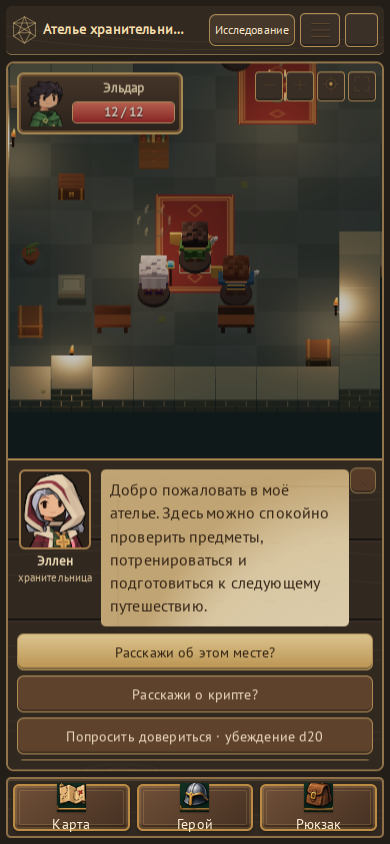
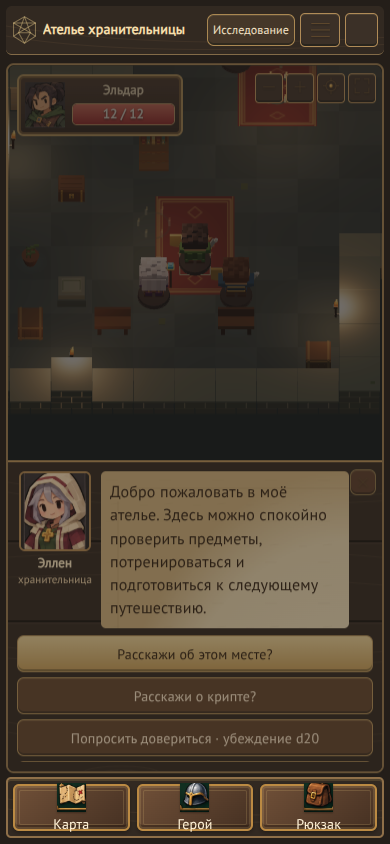
Update Site source

diff --git a/dist/index.html b/dist/index.html
@@ -1,4 +1,4 @@
-<!doctype html><html lang="ru"><head><meta charset="utf-8"><meta name="viewport" content="width=device-width,initial-scale=1,viewport-fit=cover"><meta name="theme-color" content="#10251d"><title>За гранью · воксельный полигон</title><link rel="stylesheet" href="style.css?v=reference25"></head><body><main class="tabletop">
+<!doctype html><html lang="ru"><head><meta charset="utf-8"><meta name="viewport" content="width=device-width,initial-scale=1,viewport-fit=cover"><meta name="theme-color" content="#10251d"><title>За гранью · воксельный полигон</title><link rel="stylesheet" href="style.css?v=portraits6"></head><body><main class="tabletop">
 <header><div class="title"><svg class="d20" viewBox="0 0 64 72"><path d="M32 2 60 18v34L32 70 4 52V18ZM32 2 17 43h30ZM4 18l43 25 13 9M60 18 17 43 4 52M4 18h56M17 43 32 70l15-27"/></svg><div><h1 id="title">Визуальный полигон</h1><span id="scene-name" class="scene-name"></span></div></div><div id="party" class="party"></div><button id="turn" class="turn">Исследование</button><button id="menu" class="menu" aria-label="Помощь">?</button></header>
 <section id="map-view" class="view">
 <div class="map-shell"><div class="map-toolbar"><span>Карта</span><div><button id="zoom-out" aria-label="Уменьшить">−</button><button id="zoom-in" aria-label="Увеличить">+</button><button id="camera-center">К герою</button><button id="camera-fit">Целиком</button></div></div>
@@ -12,4 +12,4 @@
 <section class="test-card"><h3>Свет и тайник</h3><p>Пять шагов: факел, дверь, осмотр ниши, находка и разговор с Эллен.</p><button id="start-trial">Начать проверку</button></section><section class="test-card rule-stages"><h3>Освоение D&D</h3><div class="test-buttons"><button data-test="rules" data-value="1">1 · Броски и движение</button><button data-test="rules" data-value="2">2 · Действия и реакции</button><button data-test="rules" data-value="3">3 · Магия и способности</button><button data-test="poison">Состояние: отравлен</button><button data-test="down">Состояние: без сознания</button></div><p class="subtle">Полные расчёты доступны сразу. Дополнительные действия раскрываются по этапам.</p></section><div class="test-grid"><section class="test-card"><h3>Локации и персонажи</h3><div class="test-buttons"><button data-test="scene" data-value="hub">Ателье</button><button data-test="scene" data-value="crypt">Крипта</button><button data-test="npc">К Эллен</button><button data-test="dummies">К манекенам</button><button data-test="doors">Открыть / закрыть двери</button><button data-test="dialogue">Повторить диалог</button></div></section>
 <section class="test-card"><h3>Бой и реакции</h3><div class="test-buttons"><button data-test="fight">Начать бой</button><button data-test="peace">Остановить бой</button><button data-test="damage">Урон −8</button><button data-test="crit">Критический удар</button><button data-test="miss">Промах</button><button data-test="heal">Восстановить отряд</button></div></section>
 <section class="test-card"><h3>Предметы и развитие</h3><div class="test-buttons"><button data-test="loot">Восстановить сундуки</button><button data-test="coins">+50 монет</button><button data-test="xp">+100 опыта</button><button data-test="reset">Сброс полигона</button></div></section>
-<section class="test-card"><h3>Свет и отображение</h3><div class="test-buttons"><button id="test-light" data-test="light">Свет</button><button id="test-grid" data-test="grid">Сетка</button><button id="test-animations" data-test="animations">Анимации</button></div><label class="slider-label">Общий свет <output id="ambient-value"></output><input id="ambient" type="range" min="0.05" max="0.8" step="0.05"></label><label class="slider-label">Яркость факелов <output id="intensity-value"></output><input id="intensity" type="range" min="0.3" max="1.5" step="0.1"></label></section></div><p id="test-log" class="test-log" aria-live="polite"></p></section><p class="rules-credit">Основа: SRD 5.2.1 · CC BY 4.0. <a href="rules.html">Правила и источники</a></p><nav class="tabs" aria-label="Разделы"><button id="tab-map" role="tab" aria-selected="true" class="active"><span>◇</span>Карта</button><button id="tab-hero" role="tab" aria-selected="false"><span>♙</span>Герой</button><button id="tab-bag" role="tab" aria-selected="false"><span>▣</span>Рюкзак</button><button id="tab-test" role="tab" aria-selected="false"><span>⚙</span>Тест</button></nav></main><dialog id="modal"><div class="modal-head"><h2 id="modal-title"></h2><button id="close" aria-label="Закрыть">×</button></div><div id="modal-body"></div></dialog><dialog id="dice-panel"><div class="modal-head"><h2>Кубики</h2><button onclick="this.closest('dialog').close()" aria-label="Закрыть">×</button></div><div class="dice-controls"><label>Кубик<select id="dice-type"></select></label><label>Формула<input id="dice-formula" value="1d20" maxlength="14" autocomplete="off" placeholder="2d6+3"></label><button id="dice-submit" class="gold">Бросить</button></div><p id="dice-result" aria-live="polite">Выберите кубик или введите формулу.</p><button id="dice-history">Журнал бросков</button><p class="subtle">d4 · d6 · d8 · d10 · d12 · d20 · d100</p></dialog><script src="dnd.js?v=reference25"></script><script src="visibility.js?v=reference25"></script><script src="rules-ui.js?v=reference25"></script><script src="world.js?v=reference25"></script><script src="inventory-rules.js?v=reference25"></script><script src="torches.js?v=reference25"></script><script src="environment.js?v=reference25"></script><script src="decor.js?v=reference25"></script><script src="textures.js?v=reference25"></script><script src="views.js?v=reference25"></script><script src="scenario.js?v=reference25"></script><script src="tests.js?v=reference25"></script><script src="episode.js?v=reference25"></script><script src="menu.js?v=reference25"></script><script src="hero-rules.js?v=reference25"></script><script src="worlds.js?v=reference25"></script><script src="heroes.js?v=reference25"></script><script src="ui-icons.js?v=reference25"></script><script src="character-style.js?v=approved53"></script><script src="artwork.js?v=reference25"></script><script src="inventory.js?v=reference25"></script><script src="hud.js?v=reference25"></script><script src="game.js?v=reference25"></script><script defer src="voxel.js?v=reference25"></script></body></html>
+<section class="test-card"><h3>Свет и отображение</h3><div class="test-buttons"><button id="test-light" data-test="light">Свет</button><button id="test-grid" data-test="grid">Сетка</button><button id="test-animations" data-test="animations">Анимации</button></div><label class="slider-label">Общий свет <output id="ambient-value"></output><input id="ambient" type="range" min="0.05" max="0.8" step="0.05"></label><label class="slider-label">Яркость факелов <output id="intensity-value"></output><input id="intensity" type="range" min="0.3" max="1.5" step="0.1"></label></section></div><p id="test-log" class="test-log" aria-live="polite"></p></section><p class="rules-credit">Основа: SRD 5.2.1 · CC BY 4.0. <a href="rules.html">Правила и источники</a></p><nav class="tabs" aria-label="Разделы"><button id="tab-map" role="tab" aria-selected="true" class="active"><span>◇</span>Карта</button><button id="tab-hero" role="tab" aria-selected="false"><span>♙</span>Герой</button><button id="tab-bag" role="tab" aria-selected="false"><span>▣</span>Рюкзак</button><button id="tab-test" role="tab" aria-selected="false"><span>⚙</span>Тест</button></nav></main><dialog id="modal"><div class="modal-head"><h2 id="modal-title"></h2><button id="close" aria-label="Закрыть">×</button></div><div id="modal-body"></div></dialog><dialog id="dice-panel"><div class="modal-head"><h2>Кубики</h2><button onclick="this.closest('dialog').close()" aria-label="Закрыть">×</button></div><div class="dice-controls"><label>Кубик<select id="dice-type"></select></label><label>Формула<input id="dice-formula" value="1d20" maxlength="14" autocomplete="off" placeholder="2d6+3"></label><button id="dice-submit" class="gold">Бросить</button></div><p id="dice-result" aria-live="polite">Выберите кубик или введите формулу.</p><button id="dice-history">Журнал бросков</button><p class="subtle">d4 · d6 · d8 · d10 · d12 · d20 · d100</p></dialog><script src="dnd.js?v=portraits6"></script><script src="visibility.js?v=portraits6"></script><script src="rules-ui.js?v=portraits6"></script><script src="world.js?v=portraits6"></script><script src="inventory-rules.js?v=portraits6"></script><script src="torches.js?v=portraits6"></script><script src="environment.js?v=portraits6"></script><script src="decor.js?v=portraits6"></script><script src="textures.js?v=portraits6"></script><script src="views.js?v=portraits6"></script><script src="scenario.js?v=portraits6"></script><script src="tests.js?v=portraits6"></script><script src="episode.js?v=portraits6"></script><script src="menu.js?v=portraits6"></script><script src="hero-rules.js?v=portraits6"></script><script src="worlds.js?v=portraits6"></script><script src="heroes.js?v=portraits6"></script><script src="ui-icons.js?v=portraits6"></script><script src="character-style.js?v=portraits6"></script><script src="artwork.js?v=portraits6"></script><script src="inventory.js?v=portraits6"></script><script src="hud.js?v=portraits6"></script><script src="game.js?v=portraits6"></script><script defer src="voxel.js?v=portraits6"></script></body></html>

diff --git a/dist/artwork.js b/dist/artwork.js
@@ -1,17 +1,20 @@
 (() => {'use strict';const atlas='assets/approved-cartoon-ui.png';
 const regions={book:[783,653,133,104],ranger:[30,70,227,226],wizard:[277,70,226,226],keeper:[526,70,227,226],novice:[771,70,224,226],map:[48,1339,91,91],hero:[191,1341,77,88],bag:[328,1341,84,88],sword:[470,1341,79,88],shield:[608,1341,80,88],chat:[748,1341,80,88],dice:[886,1340,84,90],barrel:[34,635,139,186],chest:[187,652,174,170],books:[385,604,166,217],torch:[581,609,101,213],desk:[713,617,277,203],ration:[30,1110,188,164],ink:[281,1089,139,184],rope:[422,1116,190,149],letter:[644,1110,159,166],pack:[812,1100,190,174]};
 function image(key,cls=''){const r=regions[key]||regions.ranger,s=document.createElementNS('http://www.w3.org/2000/svg','svg');s.setAttribute('viewBox',r.join(' '));s.setAttribute('class','painted-asset '+cls);s.setAttribute('aria-hidden','true');const i=document.createElementNS('http://www.w3.org/2000/svg','image');i.setAttribute('href',atlas);i.setAttribute('width','1024');i.setAttribute('height','1536');s.append(i);return s;}
-const portraitParts={male:[42,72,247,272],female:[352,75,249,270],short:[622,67,303,225],long:[946,52,305,298],beard:[63,515,199,126],bob:[319,386,303,249],pony:[626,341,329,332],hood:[954,381,290,269],fighterMale:[2,705,326,198],fighterFemale:[329,705,297,199],wizardMale:[628,691,314,213],wizardFemale:[942,710,308,192],rogueMale:[6,954,322,219],rogueFemale:[328,952,305,221],clericMale:[637,953,317,220],clericFemale:[946,960,304,212]};
-function hero(actor){const p=CharacterStyle.characterProfile(actor),female=p.gender==='female',s=document.createElementNS('http://www.w3.org/2000/svg','svg'),ns=s.namespaceURI,id='char-'+Math.random().toString(36).slice(2);s.setAttribute('viewBox','0 0 240 290');s.setAttribute('class','painted-asset head-portrait custom-portrait');s.setAttribute('aria-label','Портрет '+actor.name);s.dataset.gender=p.gender;s.dataset.cloth=p.cloth;s.dataset.hairStyle=p.hairStyle;s.dataset.faceBase=p.gender;s.dataset.style=p.style;const defs=document.createElementNS(ns,'defs');s.append(defs);function node(tag,attrs,parent=s){const n=document.createElementNS(ns,tag);for(const[k,v]of Object.entries(attrs))n.setAttribute(k,v);parent.append(n);return n;}function layer(key,box,color,base,clip){const r=portraitParts[key],scale=Math.min(box[2]/r[2],box[3]/r[3]),svg=node('g',{transform:'translate('+(box[0]+(box[2]-r[2]*scale)/2)+' '+(box[1]+(box[3]-r[3]*scale)/2)+') scale('+scale+') translate('+(-r[0])+' '+(-r[1])+')','data-part':key});const bounds=node('clipPath',{id:id+'-bounds-'+key+'-'+Math.random().toString(36).slice(2)},defs);node('rect',{x:r[0],y:r[1],width:r[2],height:r[3]},bounds);svg.setAttribute('clip-path','url(#'+bounds.id+')');if(color&&base){const rgb=h=>[1,3,5].map(i=>parseInt(h.slice(i,i+2),16)),a=rgb(color),b=rgb(base),filter=node('filter',{id:id+'-'+key,'color-interpolation-filters':'sRGB'},defs);const luminance=/Male|Female/.test(key)?.38:['short','long','bob','pony','beard'].includes(key)?(b[0]*.2126+b[1]*.7152+b[2]*.0722)/255:0;const matrix=luminance?a.map(c=>[.2126,.7152,.0722].map(w=>w*c/255/luminance).join(' ')+' 0 0').join(' ')+' 0 0 0 1 0':(a[0]/Math.max(1,b[0]))+' 0 0 0 0 0 '+(a[1]/Math.max(1,b[1]))+' 0 0 0 0 0 '+(a[2]/Math.max(1,b[2]))+' 0 0 0 0 0 1 0';node('feColorMatrix',{type:'matrix',values:matrix},filter);svg.setAttribute('filter','url(#'+filter.id+')');}const im=node('image',{href:'assets/character-portrait-parts.png',width:1254,height:1254},svg);if(clip){const c=node('clipPath',{id:id+'-clip-'+key},defs);node('path',{d:clip,'clip-rule':'evenodd'},c);im.setAttribute('clip-path','url(#'+c.id+')');}return svg;}
-
-const hair=female&&p.role==='rogue'&&p.hairStyle==='short'?'bob':p.hairStyle==='long'?(p.role==='fighter'&&female?'pony':p.role==='rogue'&&female?'bob':'long'):'short';const hairBase=hair==='long'?'#c9c6d7':hair==='pony'?'#d7a652':'#75462e';
-const head=layer(female?'female':'male',female&&p.hairStyle!=='bald'?[6,27,170,183]:[25,9,190,207],p.skin,'#efbc88');if(p.hairStyle!=='bald'){const c=node('clipPath',{id:id+'-scalp'},defs);node('rect',{x:0,y:female?68:40,width:240,height:220},c);const headGroup=node('g',{'clip-path':'url(#'+c.id+')'});headGroup.append(head);}
-const role=['fighter','wizard','rogue','cleric'].includes(p.role)?p.role:'cleric',clothing=role+(female?'Female':'Male');layer(clothing,[0,188,240,156]);
-// Color only the cloth zones; gold trim and cream collars retain their material color.
-const overlays={fighter:'M 55 755 H 234 V 890 H 55 Z M 325 763 H 560 V 884 H 325 Z',wizard:'M 640 721 H 930 V 915 H 640 Z M 960 727 H 1260 V 915 H 960 Z',rogue:'M 10 960 H 310 V 1117 H 10 Z M 327 960 H 624 V 1117 H 327 Z',cleric:'M 652 1067 H 790 V 1188 H 652 Z M 868 1067 H 948 V 1188 H 868 Z M 958 1067 H 1065 V 1188 H 958 Z M 1180 1067 H 1268 V 1188 H 1180 Z'};layer(clothing,[0,188,240,156],p.cloth,CharacterStyle.ROLES[role].cloth,overlays[role]);
-const goldLayer=layer(clothing,[0,188,240,156]),goldFilter=node('filter',{id:id+'-gold','color-interpolation-filters':'sRGB'},defs);node('feColorMatrix',{in:'SourceGraphic',type:'matrix',values:'0 0 0 0 0 0 0 0 0 0 0 0 0 0 0 5 0 -5 0 -1.3',result:'goldMask'},goldFilter);const threshold=node('feComponentTransfer',{in:'goldMask',result:'goldOnly'},goldFilter);node('feFuncA',{type:'discrete',tableValues:'0 1'},threshold);const trim=[1,3,5].map(i=>parseInt(p.trim.slice(i,i+2),16)),baseGold=[198,160,79];node('feColorMatrix',{in:'SourceGraphic',type:'matrix',values:(trim[0]/baseGold[0])+' 0 0 0 0 0 '+(trim[1]/baseGold[1])+' 0 0 0 0 0 '+(trim[2]/baseGold[2])+' 0 0 0 0 0 1 0',result:'tintedGold'},goldFilter);node('feComposite',{in:'tintedGold',in2:'goldOnly',operator:'in'},goldFilter);goldLayer.setAttribute('filter','url(#'+goldFilter.id+')');
-if(p.face==='beard'){const beard=layer('beard',female&&p.hairStyle!=='bald'?[12,113,145,98]:[37,108,166,109],p.hair,'#352b32','M 58 505 H 278 V 649 H 58 Z M 139 574 H 187 Q 194 574 194 581 V 593 Q 194 600 187 600 H 139 Q 132 600 132 593 V 581 Q 132 574 139 574 Z');const c=node('clipPath',{id:id+'-jaw'},defs);node('path',{d:female?'M 20 100 H 180 V 150 Q 164 191 95 196 Q 32 191 20 150 Z':'M 40 102 H 200 V 168 L 161 212 H 79 L 40 168 Z'},c);const group=node('g',{'clip-path':'url(#'+c.id+')'});group.append(beard);}
-if(p.hairStyle!=='bald')layer(hair,hair==='short'?[8,-5,224,183]:[4,hair==='pony'||hair==='bob'?-31:-6,232,250],p.hair,hairBase);if(p.hood)layer('hood',[-1,-7,242,252]);return s;}
+// Whole approved drawings: class/gender selection only, no overlapping face/hair layers.
+function hero(actor){
+ const p=CharacterStyle.characterProfile(actor),role=Object.hasOwn(CharacterStyle.PORTRAIT_REGIONS,p.role)?p.role:'cleric';
+ const [x,y,w,h]=CharacterStyle.PORTRAIT_REGIONS[role][p.gender];
+ const ns='http://www.w3.org/2000/svg',s=document.createElementNS(ns,'svg');
+ s.setAttribute('viewBox','0 0 '+w+' '+h);s.setAttribute('preserveAspectRatio','xMidYMid meet');
+ s.setAttribute('class','painted-asset head-portrait custom-portrait');
+ s.setAttribute('aria-label','Портрет '+(actor.name||'героя'));s.style.overflow='hidden';
+ s.dataset.gender=p.gender;s.dataset.cloth=p.cloth;s.dataset.hairStyle=p.hairStyle;
+ s.dataset.faceBase=p.gender;s.dataset.style=p.style;s.dataset.portraitSource='reference';s.dataset.portraitKey=role+':'+p.gender;
+ const im=document.createElementNS(ns,'image');im.setAttribute('href','assets/character-portraits-reference.jpeg');
+ im.setAttribute('x',-x);im.setAttribute('y',-y);im.setAttribute('width',1024);im.setAttribute('height',1536);
+ s.append(im);return s;
+}
 
 function npc(name){const actor=CharacterStyle.npcActor(name);return actor?hero(actor):null;}
 const old=window.UIIcons.svg;window.UIIcons.svg=name=>regions[name]?image(name,'ui-icon').outerHTML:old(name);

diff --git a/dist/heroes.js b/dist/heroes.js
@@ -19,7 +19,7 @@ if(step===1){body.append(title('Распредели 27 очков'));const used
 if(step===2){body.append(title('Внешность'));for(const [key,name]of Object.entries({skin:'Кожа',hair:'Волосы',cloth:'Одежда',trim:'Отделка'})){const label=title(name),row=document.createElement('div');row.className='color-choices';R.COLORS[key].forEach((color,i)=>{const b=button('',()=>{draft.appearance[key]=color;editor();},draft.appearance[key]===color?'active':'');b.classList.add('color-swatch');b.style.background=color;b.setAttribute('aria-label',name+' · вариант '+(i+1));b.setAttribute('aria-pressed',String(draft.appearance[key]===color));row.append(b)});body.append(label,row);}for(const [key,name,options]of [['hairStyle','Причёска',{short:'Короткая',long:'Длинная',bald:'Без волос'}],['face','Лицо',{soft:'Мягкое',stern:'Суровое',beard:'С бородой'}]]){body.append(title(name));const row=document.createElement('div');row.className='class-choices';for(const [v,text]of Object.entries(options))row.append(button(text,()=>{draft.appearance[key]=v;editor();},draft.appearance[key]===v?'active':''));body.append(row);}}
 if(step===3){body.append(title(draft.name+' · '+R.CLASSES[draft.classId].name));const p=document.createElement('p');p.textContent=draft.background;body.append(p,button('Новая предыстория',()=>{draft.background=R.background(draft.classId,pick);editor();}));body.append(title('Обычное стартовое снаряжение'));const kit=R.CLASSES[draft.classId].kits[draft.kit],ul=document.createElement('ul');kit.items.forEach(t=>{const li=document.createElement('li');li.textContent=t;ul.append(li)});body.append(ul,button('Другой комплект',()=>{draft.kit=(draft.kit+1)%R.CLASSES[draft.classId].kits.length;editor();}));const h=R.sheet({...draft,name:draft.name.trim()||'Герой'},'preview'),stats=document.createElement('p');stats.textContent='Очки характеристик '+R.pointsUsed(draft.stats)+' / 27 · Здоровье '+h.max+' · КД '+h.ac+' · '+Object.entries(draft.stats).map(([k,v])=>R.LABELS[k]+' '+v).join(' · ');body.append(stats);const note=document.createElement('p');note.className='creation-warning';note.textContent='После подтверждения имя, внешность, класс, начальные характеристики и предыстория закрепятся. Прокачка и смена снаряжения останутся доступны.';body.append(note);}
 if(step===2){const controls=document.createElement('div');controls.id='appearance-settings';controls.append(...Array.from(body.children).slice(2));body.append(controls);controls.scrollTop=settingsScroll;}const f=$('heroes-footer');f.replaceChildren(button(step?'Назад':'К героям',()=>{if(step){step--;editor()}else{draft=null;$('heroes-title').textContent='Твои герои';paintList();}}));if(step<3)f.append(button('Далее',()=>{if(!draft.name.trim()){status('Введите имя героя.');return;}step++;editor();},'gold'));else{const b=button(saving?'Сохраняем…':'Подтвердить героя',confirm,'gold');b.disabled=saving||!draft.name.trim();f.append(b);}paintPreview();panel.scrollTop=scroll;if(saving)$('heroes-panel').querySelectorAll('button,input,select').forEach(el=>el.disabled=true);}
-function paintPreview(){const el=$('creation-figure');if(!el||!draft)return;el.replaceChildren();const h=R.sheet({...draft,name:draft.name.trim()||'Герой'},'preview');const portrait=$('creation-portrait');if(portrait){const name=document.createElement('b'),hp=document.createElement('span');name.textContent=h.name;hp.textContent=h.max+' / '+h.max;portrait.replaceChildren(Artwork.hero(h),name,hp);}if(window.voxel?.heroPortrait){el.append(voxel.heroPortrait(h,angle));}else el.append(g().art(R.CLASSES[draft.classId].kind*4));}
+function paintPreview(){const el=$('creation-figure');if(!el||!draft)return;el.replaceChildren();const h=R.sheet({...draft,name:draft.name.trim()||'Герой'},'preview');const portrait=$('creation-portrait');if(portrait){const name=document.createElement('b'),hp=document.createElement('span');name.textContent=h.name;hp.textContent=h.max+' / '+h.max;portrait.replaceChildren(Artwork.hero(h),name,hp);}if(window.voxel?.heroPortrait){el.append(voxel.heroPortrait(h,angle));}else el.append(g().art(R.CLASSES[draft.classId].kind*4));const settings=$('appearance-settings');if(settings&&!$('portrait-reference-note')){const note=document.createElement('p');note.id='portrait-reference-note';note.className='subtle';note.textContent='Портрет из референса меняется по классу и полу. Цвета, причёска и лицо настраивают 3D-модель.';settings.prepend(note);}}
 async function confirm(){if(saving)return;try{R.validate(draft);if(R.pointsUsed(draft.stats)!==R.POINT_BUDGET){step=1;editor();status('Распределите оставшиеся '+(R.POINT_BUDGET-R.pointsUsed(draft.stats))+' очков перед подтверждением.');return;}saving=true;editor();const {hero}=await api('POST',draft);heroes.unshift(hero);draft=null;$('heroes-title').textContent='Твои герои';sessionStorage.removeItem('hero-draft');saving=false;status('Герой сохранён. Можно войти в тестовую комнату.');paintList();}catch(e){saving=false;editor();status(e.message);}}
 function init(){const d=document.createElement('dialog');d.id='heroes-panel';d.className='heroes-panel';d.innerHTML='<div class="modal-head"><h2 id="heroes-title">Твои герои</h2><button id="heroes-close" aria-label="Закрыть">×</button></div><div id="heroes-body"></div><p id="heroes-error" role="status" aria-live="polite"></p><div id="heroes-footer"></div>';document.body.append(d);$('heroes-close').onclick=()=>{if(!saving&&!window.Worlds.atMenu)d.close()};d.addEventListener('cancel',e=>{if(saving||window.Worlds.atMenu)e.preventDefault()});const b=button('Мои герои',open);b.id='saved-heroes-open';$('hero-view').prepend(b);open();}
 window.Heroes={init,open,paintPreview,refreshPortraits:()=>{if(draft)paintPreview();else if(loaded)paintList();},get heroes(){return heroes},get draft(){return draft},start,confirm};})();

diff --git a/dist/character-style.js b/dist/character-style.js
@@ -21,6 +21,7 @@ var CharacterStyle = (() => {
   var character_style_exports = {};
   __export(character_style_exports, {
     NPCS: () => NPCS,
+    PORTRAIT_REGIONS: () => PORTRAIT_REGIONS,
     ROLES: () => ROLES,
     STYLE: () => STYLE,
     STYLE_VERSION: () => STYLE_VERSION,
@@ -31,6 +32,12 @@ var CharacterStyle = (() => {
     tint: () => tint
   });
   var STYLE_VERSION = "approved-voxel-v2";
+  var PORTRAIT_REGIONS = {
+    fighter: { male: [30, 130, 239, 272], female: [552, 129, 212, 273] },
+    wizard: { male: [30, 498, 239, 264], female: [552, 498, 212, 264] },
+    rogue: { male: [30, 870, 239, 262], female: [552, 870, 212, 262] },
+    cleric: { male: [30, 1230, 239, 267], female: [552, 1230, 212, 267] }
+  };
   var STYLE = { voxel: 0.105, height: 1.4, headWidth: 0.5332, headHeight: 0.44, eyeHeight: 0.0935, maxParts: 420, maxPalette: 32 };
   var ROLES = { fighter: { cloth: "#315e84", trim: "#c6a04f", hair: "#75462e", skin: "#efbc88" }, wizard: { cloth: "#62377e", trim: "#c6a04f", hair: "#c9c6d7", skin: "#efbc88" }, rogue: { cloth: "#487844", trim: "#c6a04f", hair: "#352b32", skin: "#efbc88" }, cleric: { cloth: "#8b3d46", trim: "#c6a04f", hair: "#734c32", skin: "#efbc88" }, skeleton: { cloth: "#813a36", trim: "#c6a04f", hair: "#352b32", skin: "#d9c9a5" }, dummy: { cloth: "#936c40", trim: "#c6a04f", hair: "#936c40", skin: "#936c40" } };
   var NPCS = Object.freeze({

diff --git a/src/character-style.js b/src/character-style.js
@@ -1,5 +1,12 @@
 // Approved character sheet 2026-10-02. This is the sole source of character geometry.
 export const STYLE_VERSION='approved-voxel-v2';
+// Rectangles inside the original 1024x1536 reference, matching the approved local portraits.
+export const PORTRAIT_REGIONS={
+ fighter:{male:[30,130,239,272],female:[552,129,212,273]},
+ wizard:{male:[30,498,239,264],female:[552,498,212,264]},
+ rogue:{male:[30,870,239,262],female:[552,870,212,262]},
+ cleric:{male:[30,1230,239,267],female:[552,1230,212,267]},
+};
 export const STYLE={voxel:.105,height:1.40,headWidth:.5332,headHeight:.44,eyeHeight:.0935,maxParts:420,maxPalette:32};
 export const ROLES={fighter:{cloth:'#315e84',trim:'#c6a04f',hair:'#75462e',skin:'#efbc88'},wizard:{cloth:'#62377e',trim:'#c6a04f',hair:'#c9c6d7',skin:'#efbc88'},rogue:{cloth:'#487844',trim:'#c6a04f',hair:'#352b32',skin:'#efbc88'},cleric:{cloth:'#8b3d46',trim:'#c6a04f',hair:'#734c32',skin:'#efbc88'},skeleton:{cloth:'#813a36',trim:'#c6a04f',hair:'#352b32',skin:'#d9c9a5'},dummy:{cloth:'#936c40',trim:'#c6a04f',hair:'#936c40',skin:'#936c40'}};
 // Adapted from Claude's NPCS registry. Keep scene IDs and identity independent of names.

diff --git a/CHARACTER_STYLE.md b/CHARACTER_STYLE.md
@@ -18,6 +18,8 @@
 
 ## Портреты
 
+Актуальное указание владельца 2026-10-03: использовать восемь цельных рисунков из референса. dist/assets/character-portraits-reference.jpeg — неизменённый оригинал. PORTRAIT_REGIONS в src/character-style.js выбирает класс и пол; Artwork.hero отображает область целиком с сохранением пропорций. Никакой сборки головы/волос/одежды и перекраски. Это заменяет прежние правила модульных портретов ниже. Настройки внешности продолжают менять только 3D-модель; редактор объясняет ограничение. NPC используют классовые рисунки (Лин получает бородатого жреца из рефа). Остальные правила геометрии сохраняются.
+
 Атлас `dist/assets/character-portrait-parts.png` создан по утверждённому листу. `Artwork.hero` компонует голову, волосы, бороду, одежду и капюшон. Профиль берётся из того же `characterProfile`, что у 3D-модели. Не заменять его упрощёнными SVG-лицами. Художественная основа: крупная голова, чёрный контур, маленькие овальные глаза, угловатые цветовые плоскости без реализма.
 
 Пол, тон кожи, цвет и длина волос, борода, класс и цвет одежды должны совпадать с моделью. Борода — отдельный слой с ограничением по челюсти; лысая голова не содержит волос; чистое лицо не содержит бороды. Нельзя накладывать две полные головы друг на друга. Новые портретные части должны пройти проверку на прозрачность, расположение и отсутствие чужих фрагментов.

diff --git a/AI_HANDOFF.md b/AI_HANDOFF.md
@@ -1,5 +1,8 @@
 # Передача проекта другому ИИ
 
+## Публикация цельных портретов · 2026-10-03
+Владелец явно попросил обновить живой сайт. В текущую удалённую основу версии 55 перенесены цельные портреты из локального прохода v6. Старые слои в Artwork.hero больше не используются; восемь областей оригинального JPEG выбираются через characterProfile и PORTRAIT_REGIONS. Портрет меняется по классу и полу, цвета/причёска/лицо меняют только 3D-модель. Редактор содержит пояснение. Сохранены геометрия, серверные изменения, UI и реестр NPC текущей удалённой версии; локальный старый архив не заменяет весь проект. HTML-кеш portraits6. Пользователь ранее видел неизменённый сайт, потому что локальный архив не публиковался.
+
 ## Состояние 2026-10-02
 Последняя опубликованная перед текущим объединением версия — 54.
 Игра: https://eldar-tabletop-new.shefdw.chatgpt.site
